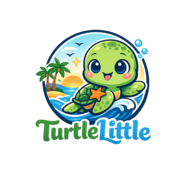
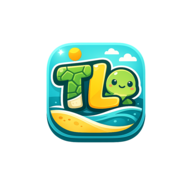
Update website to remove free shipping and promote bathrobes
Adjusts site configuration and product details to reflect new shipping policies and product offerings, including updating the announcement bar, hero banner, product page badges, and shipping policy. Also updates header logo and favicon.

Replit-Commit-Author: Agent
Replit-Commit-Session-Id: b2171021-a84c-4d65-801d-bffc514924de
Replit-Commit-Checkpoint-Type: full_checkpoint
Replit-Commit-Event-Id: d0298f40-f802-4ccf-b840-254ec0d4c06c
Replit-Commit-Screenshot-Url: https://storage.googleapis.com/screenshot-production-us-central1/85fa8e61-40b4-4e37-991d-7f3305644757/b2171021-a84c-4d65-801d-bffc514924de/bsOiadF
Replit-Helium-Checkpoint-Created: true

Changed region(s): [[0.1875, 0.125, 0.7812, 0.75]]

diff --git a/server/migrations/policy-pages.ts b/server/migrations/policy-pages.ts
@@ -5,7 +5,7 @@ import { sql } from "drizzle-orm";
 const POLICY_PAGES: { key: string; value: string }[] = [
   { key: "page-terms", value: "{\"title\":\"Terms & Conditions\",\"lastUpdated\":\"February 2026\",\"sections\":[{\"heading\":\"1. Introduction\",\"body\":\"Welcome to TurtleLittle. These Terms & Conditions govern your use of our website turtlelittle.com and the purchase of our products. By accessing our website or placing an order, you agree to be bound by these terms. Please read them carefully before using our services.\"},{\"heading\":\"2. Products & Personalisation\",\"body\":\"TurtleLittle offers personalised embroidered towels, blankets, and bathrobes. All personalisation details (names, initials or any other text) provided by the customer must be accurate. We are not responsible for errors in personalisation caused by incorrect information provided by the customer. Due to the personalised nature of our products, please double-check all details before confirming your order.\"},{\"heading\":\"3. Pricing & Payment\",\"body\":\"All prices are listed in Indian Rupees (INR) and are inclusive of applicable taxes unless stated otherwise. We reserve the right to change prices at any time without prior notice. Payment must be completed at the time of placing an order through our accepted payment methods. We use secure, industry-standard payment processing to protect your financial information.\"},{\"heading\":\"4. Orders & Confirmation\",\"body\":\"Once you place an order, you will receive an order confirmation. This confirmation does not guarantee acceptance of your order. We reserve the right to cancel or refuse any order for reasons including product availability, pricing errors, or suspected fraudulent activity. In such cases, you will be notified and any payment made will be refunded.\"},{\"heading\":\"5. Shipping & Delivery\",\"body\":\"We aim to dispatch all orders within 1-2 business days after order confirmation. During festive seasons or high-demand periods, processing may take slightly longer. Delivery timelines depend on your location and the shipping partner. Please refer to our Shipping Policy for detailed information on delivery timelines and charges.\"},{\"heading\":\"6. Returns & Refunds\",\"body\":\"Due to the personalised nature of our products, returns and exchanges are accepted only in cases of manufacturing defects or incorrect items delivered. Please refer to our Refund & Cancellation Policy for complete details on the return process and eligibility.\"},{\"heading\":\"7. Intellectual Property\",\"body\":\"All content on turtlelittle.com, including text, images, logos, designs, and graphics, is the property of TurtleLittle and is protected by applicable intellectual property laws. You may not reproduce, distribute, or use any content from our website without our prior written permission.\"},{\"heading\":\"8. Limitation of Liability\",\"body\":\"TurtleLittle shall not be liable for any indirect, incidental, or consequential damages arising from the use of our website or products. Our total liability shall not exceed the amount paid by you for the specific product in question.\"},{\"heading\":\"9. Governing Law\",\"body\":\"These terms shall be governed by and construed in accordance with the laws of India. Any disputes arising from these terms shall be subject to the exclusive jurisdiction of the courts in New Delhi, India.\"},{\"heading\":\"10. Contact Us\",\"body\":\"If you have any questions about these Terms & Conditions, please reach out to us at hello@turtlelittle.com or call us at +91 99900 79722.\"}]}" },
   { key: "page-refund", value: "{\"title\":\"Refund & Cancellation Policy\",\"lastUpdated\":\"February 2026\",\"sections\":[{\"heading\":\"1. Personalised Products\",\"body\":\"Since all TurtleLittle products are personalised with custom embroidery (names, initials, or specific designs), they are made-to-order and cannot be resold. Therefore, we do not accept returns or exchanges for change of mind, incorrect personalisation details provided by the customer, or size/colour preferences after the order has been placed.\"},{\"heading\":\"2. Eligible Returns\",\"body\":\"We accept returns and provide replacements or refunds only in the following cases:\\n• Manufacturing Defects: If the product has a defect in the fabric, stitching, or embroidery quality.\\n• Wrong Item: If you receive a product different from what you ordered.\\n• Damaged in Transit: If the product arrives damaged due to shipping.\"},{\"heading\":\"3. How to Request a Return\",\"body\":\"To initiate a return, please follow these steps:\\n1. Contact us within 48 hours of receiving your order via WhatsApp at +91 99900 79722 or email at hello@turtlelittle.com.\\n2. Share clear photographs of the product showing the defect or issue.\\n3. Include your order number and a brief description of the problem.\\n4. Our team will review your request and respond within 24-48 hours.\"},{\"heading\":\"4. Refund Process\",\"body\":\"Once your return request is approved, we will offer you the choice of a replacement product or a full refund. Refunds will be processed to the original payment method within 7-10 business days. For Cash on Delivery (COD) orders, refunds will be processed via bank transfer — we will collect your bank details securely.\"},{\"heading\":\"5. Order Cancellation\",\"body\":\"You may cancel your order within 2 hours of placing it by contacting us via WhatsApp or email. After this window, your order may already be in production and cannot be cancelled. For cancelled orders where payment was already made, a full refund will be processed within 7-10 business days.\"},{\"heading\":\"6. Non-Returnable Items\",\"body\":\"The following are not eligible for returns:\\n• Products that have been used, washed, or altered after delivery.\\n• Products returned without prior approval from our team.\\n• Products where the issue is due to incorrect personalisation details provided by the customer.\"},{\"heading\":\"7. Contact Us\",\"body\":\"For any questions about returns, refunds, or cancellations, please reach out to us at hello@turtlelittle.com or WhatsApp us at +91 99900 79722.\"}]}" },
-  { key: "page-shipping", value: "{\"title\":\"Shipping Policy\",\"lastUpdated\":\"February 2026\",\"sections\":[{\"heading\":\"1. Processing Time\",\"body\":\"Since all TurtleLittle products are personalised with custom embroidery, each item is made-to-order. Orders typically take 1-2 business days to process and prepare for dispatch. During festive seasons or high-demand periods, processing may take slightly longer.\"},{\"heading\":\"2. Delivery Timeline\",\"body\":\"After dispatch, estimated delivery times are:\\n• Metro Cities (Delhi, Mumbai, Bangalore, Chennai, Kolkata, Hyderabad): 2-4 business days\\n• Other Cities & Towns: 4-7 business days\\n• Remote Areas: 7-10 business days\\n\\nPlease note that delivery timelines are estimates and may vary based on the shipping partner and your location. You will receive a shipping confirmation with tracking details once your order is dispatched.\"},{\"heading\":\"3. Shipping Charges\",\"body\":\"We offer free shipping across India on all orders. No minimum order value is required. We want the joy of receiving a personalised TurtleLittle product to begin the moment you place your order.\"},{\"heading\":\"4. Shipping Partners\",\"body\":\"We work with reputable logistics partners to ensure safe and timely delivery of your orders. All products are carefully packaged to protect the embroidery and fabric during transit.\"},{\"heading\":\"5. Order Tracking\",\"body\":\"Once your order is dispatched, you will receive a tracking number via WhatsApp or email. You can use this to track the real-time status of your delivery. If you haven't received tracking details within 5 business days of placing your order, please contact us.\"},{\"heading\":\"6. Delivery Issues\",\"body\":\"If your order has not arrived within the estimated delivery timeline, or if you receive a damaged package, please contact us immediately via WhatsApp at +91 99900 79722 or email at hello@turtlelittle.com. We will work with the shipping partner to resolve the issue as quickly as possible.\"},{\"heading\":\"7. Incorrect Address\",\"body\":\"Please ensure that the shipping address provided at checkout is accurate and complete. TurtleLittle is not responsible for delays or non-delivery caused by incorrect or incomplete addresses. If you need to change your shipping address after placing an order, contact us within 2 hours of placing the order.\"},{\"heading\":\"8. Contact Us\",\"body\":\"For any shipping-related queries, please reach out to us at hello@turtlelittle.com or WhatsApp us at +91 99900 79722.\"}]}" },
+  { key: "page-shipping", value: "{\"title\":\"Shipping Policy\",\"lastUpdated\":\"February 2026\",\"sections\":[{\"heading\":\"1. Processing Time\",\"body\":\"Since all TurtleLittle products are personalised with custom embroidery, each item is made-to-order. Orders typically take 1-2 business days to process and prepare for dispatch. During festive seasons or high-demand periods, processing may take slightly longer.\"},{\"heading\":\"2. Delivery Timeline\",\"body\":\"After dispatch, estimated delivery times are:\\n• Metro Cities (Delhi, Mumbai, Bangalore, Chennai, Kolkata, Hyderabad): 2-4 business days\\n• Other Cities & Towns: 4-7 business days\\n• Remote Areas: 7-10 business days\\n\\nPlease note that delivery timelines are estimates and may vary based on the shipping partner and your location. You will receive a shipping confirmation with tracking details once your order is dispatched.\"},{\"heading\":\"3. Shipping Charges\",\"body\":\"Shipping charges are calculated based on your order value and delivery location. Applicable charges will be displayed at checkout before you complete your purchase.\"},{\"heading\":\"4. Shipping Partners\",\"body\":\"We work with reputable logistics partners to ensure safe and timely delivery of your orders. All products are carefully packaged to protect the embroidery and fabric during transit.\"},{\"heading\":\"5. Order Tracking\",\"body\":\"Once your order is dispatched, you will receive a tracking number via WhatsApp or email. You can use this to track the real-time status of your delivery. If you haven't received tracking details within 5 business days of placing your order, please contact us.\"},{\"heading\":\"6. Delivery Issues\",\"body\":\"If your order has not arrived within the estimated delivery timeline, or if you receive a damaged package, please contact us immediately via WhatsApp at +91 99900 79722 or email at hello@turtlelittle.com. We will work with the shipping partner to resolve the issue as quickly as possible.\"},{\"heading\":\"7. Incorrect Address\",\"body\":\"Please ensure that the shipping address provided at checkout is accurate and complete. TurtleLittle is not responsible for delays or non-delivery caused by incorrect or incomplete addresses. If you need to change your shipping address after placing an order, contact us within 2 hours of placing the order.\"},{\"heading\":\"8. Contact Us\",\"body\":\"For any shipping-related queries, please reach out to us at hello@turtlelittle.com or WhatsApp us at +91 99900 79722.\"}]}" },
   { key: "page-about", value: "{\"title\":\"About TurtleLittle\",\"lastUpdated\":\"February 2026\",\"sections\":[{\"heading\":\"Our Story\",\"body\":\"TurtleLittle was born from a simple idea — to create everyday essentials that feel personal, thoughtful, and special. What started as a passion for beautiful embroidery has grown into a brand that celebrates individuality through personalised luxury products.\\n\\nWe believe that the little things matter. A towel with your child's name, a blanket embroidered for a couple, a bathrobe that's uniquely yours — these small touches turn ordinary items into cherished keepsakes.\"},{\"heading\":\"What We Do\",\"body\":\"We specialise in premium quality embroidered towels, blankets, and bathrobes. Every product is made-to-order, personalised with names, initials, or custom designs that make each piece one-of-a-kind.\\n\\nFrom playful Disney characters for kids to elegant monograms for adults, our collections are designed to bring joy and a touch of luxury to everyday life.\"},{\"heading\":\"Our Promise\",\"body\":\"• Premium Quality: We use only the finest fabrics — 100% cotton terry, soft fleece, and luxurious velour — to ensure every product feels as good as it looks.\\n• Handcrafted with Love: Each item is carefully embroidered by skilled artisans who take pride in their craft.\\n• Personalised for You: No two products are the same. Every piece is made specifically for you or your loved ones.\\n• Customer First: We're committed to making your experience delightful, from browsing to unboxing.\"},{\"heading\":\"Why TurtleLittle?\",\"body\":\"The turtle represents patience, care, and attention to detail — values that are at the heart of everything we do. 'Little' reflects the small, meaningful touches that make our products special.\\n\\nTogether, TurtleLittle stands for thoughtful craftsmanship and personalised care.\"},{\"heading\":\"Get in Touch\",\"body\":\"We'd love to hear from you! Whether you have a question, a custom request, or just want to say hello:\\n\\n• Email: hello@turtlelittle.com\\n• WhatsApp: +91 99900 79722\\n• Instagram: @turtlelittle\"}]}" },
   { key: "page-privacy", value: "{\"title\":\"Privacy Policy\",\"lastUpdated\":\"February 2026\",\"sections\":[{\"heading\":\"1. Introduction\",\"body\":\"TurtleLittle is committed to protecting your privacy. This Privacy Policy explains how we collect, use, store, and protect your personal information when you visit turtlelittle.com or purchase our products.\"},{\"heading\":\"2. Information We Collect\",\"body\":\"We collect the following types of information:\\n• Personal Information: Name, email address, phone number, shipping address, and billing address when you place an order.\\n• Personalisation Details: Names and initials you provide for embroidery on our products.\\n• Payment Information: Payment details are processed securely through our payment gateway partners and are not stored on our servers.\\n• Usage Data: Browser type, pages visited, time spent on pages, and other analytics data to improve our website experience.\\n• Cookies: We use cookies to maintain your cart, remember preferences, and improve your browsing experience.\"},{\"heading\":\"3. How We Use Your Information\",\"body\":\"• To process and fulfill your orders, including personalisation and delivery.\\n• To communicate with you about your orders, including shipping updates via WhatsApp or phone.\\n• To improve our website, products, and customer service.\\n• To send promotional communications (only with your consent, and you can opt out at any time).\\n• To prevent fraud and ensure the security of transactions.\"},{\"heading\":\"4. Information Sharing\",\"body\":\"We do not sell, trade, or rent your personal information to third parties. We may share your information only with:\\n• Shipping Partners: To deliver your orders.\\n• Payment Processors: To process your payments securely.\\n• Legal Requirements: When required by law or to protect our rights.\"},{\"heading\":\"5. Cookies\",\"body\":\"Our website uses cookies to enhance your experience. Cookies help us remember your cart items and preferences. You can manage or disable cookies through your browser settings, though some features of the website may not function properly without them.\"},{\"heading\":\"6. Data Security\",\"body\":\"We implement industry-standard security measures to protect your personal information, including SSL encryption for all data transmission. However, no method of transmission over the internet is 100% secure, and we cannot guarantee absolute security.\"},{\"heading\":\"7. Data Retention\",\"body\":\"We retain your personal information for as long as necessary to fulfill the purposes outlined in this policy, including order fulfillment, customer support, and legal obligations. You may request deletion of your data by contacting us.\"},{\"heading\":\"8. Your Rights\",\"body\":\"You have the right to:\\n• Access the personal information we hold about you.\\n• Request correction of inaccurate information.\\n• Request deletion of your personal data.\\n• Opt out of promotional communications at any time.\"},{\"heading\":\"9. Changes to This Policy\",\"body\":\"We may update this Privacy Policy from time to time. Any changes will be posted on this page with an updated date. We encourage you to review this policy periodically.\"},{\"heading\":\"10. Contact Us\",\"body\":\"For any privacy-related questions or requests, please contact us at hello@turtlelittle.com or call us at +91 99900 79722.\"}]}" },
 ];

diff --git a/client/src/lib/siteConfigDefaults.ts b/client/src/lib/siteConfigDefaults.ts
@@ -118,15 +118,15 @@ export interface FeaturedSectionsConfig {
 export const defaultAnnouncement: AnnouncementConfig = {
   items: [
     { text: "Buy 2 Get 1 Free on all products" },
-    { text: "Free shipping across India" },
     { text: "Personalised embroidery on every product" },
+    { text: "Premium towels, blankets & bathrobes" },
   ],
 };
 
 export const defaultHero: HeroConfig = {
-  title: "Luxury Towels & Blankets",
+  title: "Luxury Towels, Blankets & Bathrobes",
   titleHighlight: "with Your Name",
-  subtitle: "Premium quality embroidered products, personalised with love. The perfect gift for your little ones and loved ones.",
+  subtitle: "Premium quality embroidered towels, blankets & bathrobes, personalised with love. The perfect gift for your little ones and loved ones.",
   primaryButtonText: "Shop Now",
   primaryButtonLink: "/shop",
   secondaryButtonText: "Couple Sets",

diff --git a/client/src/components/Header.tsx b/client/src/components/Header.tsx
@@ -36,9 +36,12 @@ export default function Header() {
       <div className="max-w-7xl mx-auto px-4">
         <div className="flex items-center justify-between gap-2 h-14">
           <Link href="/" data-testid="link-home">
-            <span className="text-lg font-bold text-primary cursor-pointer" data-testid="text-brand-name">
-              {config.brandName}
-            </span>
+            <img
+              src="/images/logo.png"
+              alt={config.brandName}
+              className="h-10 w-auto cursor-pointer"
+              data-testid="img-brand-logo"
+            />
           </Link>
 
           <nav className="hidden md:flex items-center gap-1" data-testid="nav-desktop">

diff --git a/client/src/pages/ProductPage.tsx b/client/src/pages/ProductPage.tsx
@@ -461,7 +461,7 @@ export default function ProductPage() {
               </div>
               <div className="flex flex-col items-center gap-1 p-2 rounded-md bg-muted/50">
                 <Check className="w-4 h-4 text-primary" />
-                <span className="text-[10px] text-muted-foreground">Free Shipping</span>
+                <span className="text-[10px] text-muted-foreground">Buy 2 Get 1 Free</span>
               </div>
             </div>
           </div>
